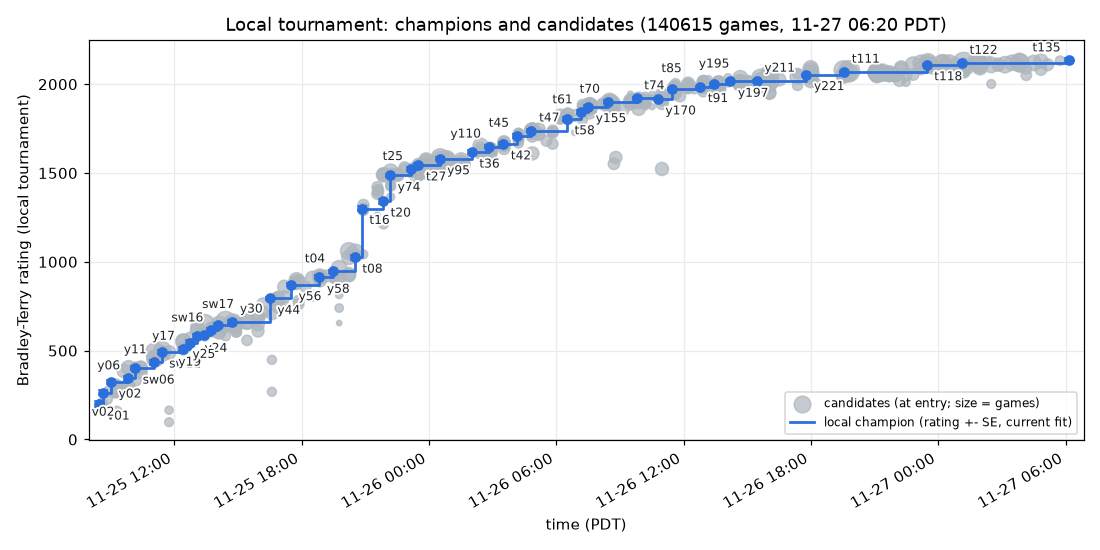
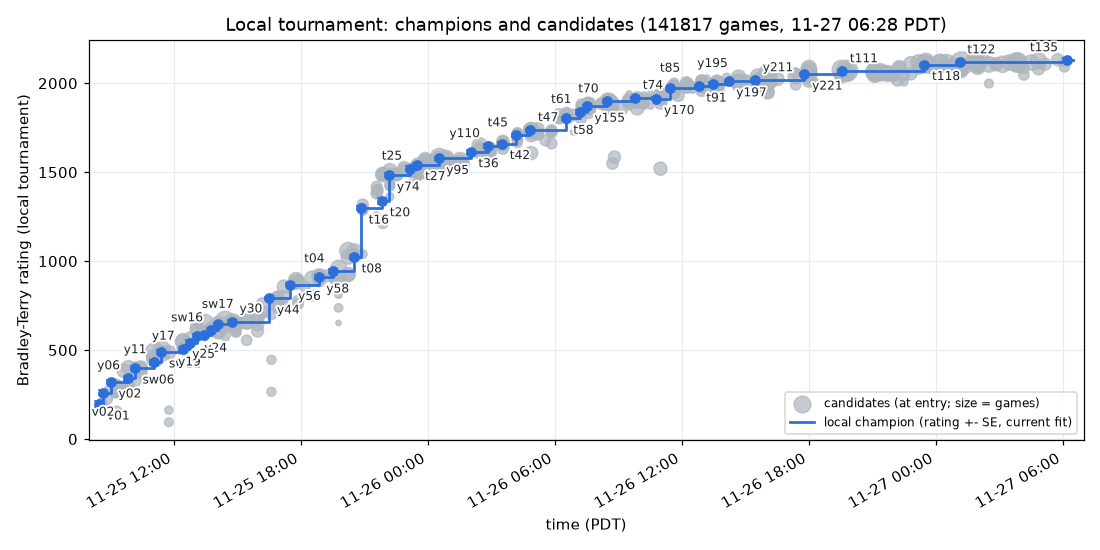
prod: retire y276 (-38 vs t135), y271 (flat after 809); slots held for audit fixes and study 11
Claude-Session: https://claude.ai/code/session_01SzziPSCWtjsjju9cnThDf5

diff --git a/progress/local-elo.md b/progress/local-elo.md
@@ -1,54 +1,54 @@
 # Local tournament Elo
 
-Bradley-Terry ratings of our own bots in the local tournament (`tools/tourney.py`), all 140615 games in one fit as of 2026-11-27 06:21 PDT, so every point is on the same scale; earlier champions are shown at their current rating, and "Gain" is the rating over the champion it replaced. `tools/tourney.py rank` rewrites this table; `tools/tourney.py chart` also redraws the chart.
+Bradley-Terry ratings of our own bots in the local tournament (`tools/tourney.py`), all 141817 games in one fit as of 2026-11-27 06:28 PDT, so every point is on the same scale; earlier champions are shown at their current rating, and "Gain" is the rating over the champion it replaced. `tools/tourney.py rank` rewrites this table; `tools/tourney.py chart` also redraws the chart.
 
 ![local elo](local-elo.png)
 
 | Champion from (PDT) | Bot | Change on base | Submission | Rating +- SE | Gain | Games |
 |---|---|---|---:|---:|---:|---:|
-| 2026-11-25 08:28 | v01 | foundation bot |  | 199 +- 18 |  | 435 |
-| 2026-11-25 08:39 | v02 | nav wall-follow fix + bytecode guards on v01 | #6 | 264 +- 13 | +65 | 801 |
-| 2026-11-25 09:01 | y02 | paint-heavy tower mix + paint towers upgraded first on v02 | #7 | 323 +- 11 | +59 | 1080 |
-| 2026-11-25 09:49 | y06 | 3 opening soldiers instead of 2 on y02 | #35 | 344 +- 13 | +21 | 700 |
-| 2026-11-25 10:09 | sw06 | no moppers before r80; a third of spawns moppers after (field study 1) on y02 | #36 | 401 +- 12 | +79 | 863 |
-| 2026-11-25 11:04 | y11 | mid-game mix 3 moppers per 6 (soldier mopper splasher mopper soldier mopper) on sw06 | #37 | 434 +- 14 | +33 | 655 |
-| 2026-11-25 11:24 | sw11 | at most 1 helper soldier per ruin (more ruins claimed in parallel) on y11 | #38 | 492 +- 11 | +58 | 1159 |
-| 2026-11-25 12:24 | y17 | sw11 + moppers prefer enemies within r2 25 of our towers (sw12) on sw11 | #39 | 510 +- 12 | +18 | 871 |
-| 2026-11-25 12:44 | y19 | sw11 with soldiers joining an occupied ruin only when adjacent (r2<=2) on y17 | #40 | 545 +- 14 | +35 | 678 |
-| 2026-11-25 13:04 | y24 | y17 with mopper defence widened (DEFEND_R2 36 / bonus 80) on y19 | #41 | 580 +- 13 | +35 | 679 |
-| 2026-11-25 13:24 | y25 | y19 (adjacent-only ruin helping) + y17 tower-defending moppers on y24 | #42 | 589 +- 12 | +9 | 898 |
-| 2026-11-25 13:44 | sw16 | y25 + soldier siege: with no ruin and paint>=80 kite a known enemy tower within r2 64 on y25 | #43 | 614 +- 11 | +24 | 976 |
-| 2026-11-25 14:04 | sw17 | y28 (siege from 50 paint r2 100) + splasher siege (towers weigh 40; walk to known tower within r2 100 at paint>=100) on sw16 | #44 | 646 +- 10 | +33 | 1110 |
-| 2026-11-25 14:44 | y30 | y28 with soldier siege from 30 paint within r2 144 (no splasher siege) on sw17 | #45 | 663 +- 7 | +17 | 2377 |
-| 2026-11-25 16:30 | y44 | study 3 tactic 3 (enemy refill policy): return at 50% paint (soldier 100/splasher 100/mopper 40) + end-of-turn top-up from any adjacent ally tower on y30 | #46 | 794 +- 8 | +131 | 2250 |
-| 2026-11-25 17:30 | y56 | study 3 tactic 4 (tower churn): a drained L1 money tower with intact pattern and an ally adjacent disintegrates at >=2000 chips; adjacent robots re-complete it for a fresh 500 paint on y44 | #47 | 871 +- 10 | +77 | 1320 |
-| 2026-11-25 18:50 | y58 | study 3 tactic 2 (early soldiers paint patterns not coverage): exploring soldiers paint no coverage before r50 on y56 | #48 | 913 +- 11 | +42 | 997 |
-| 2026-11-25 19:30 | t04 | t02 (no coverage painting before r80) + t03 (units wait beside drained money towers and repair their pattern so churn fires; study 3 tactics 2 and 4) on y58 | #49 | 946 +- 11 | +33 | 1065 |
-| 2026-11-25 20:30 | t08 | study 4 2.2 (contested ruins): soldiers skip a ruin with enemy paint in its visible 5x5 (bad for 50 rounds) on t04 | #50 | 1026 +- 13 | +80 | 775 |
-| 2026-11-25 20:50 | t16 | t12 (t08 + study 4 2.1 spawn freeze 8 rounds in 20 below 1000+cost) + study 4 2.4 money-first: builds money until 8 towers then paint while paint towers < n/5; paint first only if none (all towers known) on t08 | #51 | 1300 +- 12 | +274 | 1213 |
-| 2026-11-25 21:50 | t20 | study 4 2.3: splashers weight enemy towers 30 (was 12) in the splash score on t16 | #52 | 1341 +- 15 | +41 | 587 |
-| 2026-11-25 22:10 | y74 | unit audit (owner prompt #15): splash-grid bug fix (enemy tiles never scored) + moppers stop once enemy paint is in mop reach; built on t16 on t20 | #53 | 1486 +- 10 | +145 | 1255 |
-| 2026-11-25 23:10 | t25 | unit audit + top teams' unit mix (616 S / 662 X / 701 M): after r80 paint towers cycle soldier-splasher-mopper; money towers keep S M X M S M on y74 | #54 | 1522 +- 13 | +36 | 680 |
-| 2026-11-25 23:30 | t27 | top teams' splasher-heavy late mix pushed further: paint towers cycle soldier-splasher-splasher-mopper after r80 on t25 | #55 | 1545 +- 9 | +23 | 1554 |
-| 2026-11-26 00:30 | y95 | upgrade spare 1200 (was 800): chips stay for new towers longer on t27 | #56 | 1580 +- 9 | +35 | 1822 |
-| 2026-11-26 02:01 | t36 | late SRPs (study 4 2.6 / study 3 tactic 7): soldiers without a ruin build SRPs on the x%4==2 y%4==2 lattice from r100 with chips>=1000; splashers avoid repainting SRP secondary tiles on y95 | #57 | 1617 +- 11 | +37 | 977 |
-| 2026-11-26 02:50 | y110 | money towers upgrade only with 2500 chips beyond the cost+spare (was 1000): chips go to new towers and SRPs on t36 | #58 | 1648 +- 10 | +31 | 1260 |
-| 2026-11-26 03:30 | t42 | study 4 3.1 recovery: with every tower known and no money tower left the next ruin is a money tower on y110 | #59 | 1663 +- 10 | +15 | 1332 |
-| 2026-11-26 04:10 | t45 | study 3 tactic 1: after r40 towers spawn only with 1000 chips beyond the unit's cost (no 600-chip window) on t42 | #60 | 1710 +- 10 | +47 | 1226 |
-| 2026-11-26 04:50 | t47 | study 3 tactic 5: a mopper due in the cycle spawns even below the 1000 reserve when an enemy robot is within d2 20 of the tower on t45 | #61 | 1739 +- 7 | +29 | 2398 |
-| 2026-11-26 06:30 | t58 | study 5 2.3: a splasher that has not splashed for 8 rounds (while able to) explores instead of chasing the nearest non-ally tile on t47 | #62 | 1805 +- 11 | +66 | 1087 |
-| 2026-11-26 07:10 | t61 | study 5 2.1 (softened): money towers for builds 1-5; then one more paint tower per 4 towers on t58 | #63 | 1842 +- 11 | +37 | 938 |
-| 2026-11-26 07:30 | y155 | study 5 2.1 tuned: money towers for builds 1-6; then one more paint tower per 4 towers on t61 | #64 | 1874 +- 9 | +32 | 1615 |
-| 2026-11-26 08:27 | t70 | y155 + splashers weight enemy towers 30 (t68) + 2000+ chips makes the next tower a paint tower (y159) on y155 | #65 | 1901 +- 7 | +27 | 2530 |
-| 2026-11-26 09:47 | t74 | moppers weight enemy paint near ruins 40 (study 6 2.1c) on t70 | #66 | 1920 +- 8 | +19 | 2200 |
-| 2026-11-26 10:47 | y170 | soldiers make the next tower a paint tower at 1500+ chips (t63 tuning; was 2000) on t74 | #67 | 1917 +- 7 | -4 | 2823 |
-| 2026-11-26 11:27 | t85 | study 6 2.2 ruin denial from where the soldier stands: a soldier with no ruin paints empty tiles of a ruin the enemy is building; without walking to it on y170 | #68 | 1974 +- 7 | +57 | 2556 |
-| 2026-11-26 12:47 | t91 | study 7 2.5: moppers ignore ruins under enemy towers when weighting ruin paint on t85 | #69 | 1986 +- 5 | +12 | 4989 |
-| 2026-11-26 13:27 | y195 | study 7 2.1a: explore unseen tiles first; up to 16 random draws on t91 | #70 | 2000 +- 9 | +14 | 1349 |
-| 2026-11-26 14:12 | y197 | ruin denial stops at 2 of our tiles (tuning of study 6 2.2) on y195 | #71 | 2016 +- 7 | +16 | 2235 |
-| 2026-11-26 15:27 | y211 | study 7 2.1a tuned: up to 128 random draws for an unseen explore target (was 16) on y197 | #72 | 2019 +- 6 | +3 | 4141 |
-| 2026-11-26 17:47 | y221 | study 8 2.2 (paint the first tower's pattern on the way in; a second soldier on the first ruin) + explore timeout 90; first champion through the confirmation stage (owner #46) on y211 | #73 | 2054 +- 5 | +34 | 6040 |
-| 2026-11-26 19:34 | t111 | splashers attack enemy paint/money towers from a stand-off tile outside their range (study 8 2.4) on y221 | #74 | 2070 +- 5 | +17 | 7332 |
-| 2026-11-26 23:27 | t118 | study 9 2.1b: a soldier on a blocked pattern with no own mopper or splasher in view gives up after 5 turns (was 25); confirmed +71 +-29 in 153 fresh games on t111 | #75 | 2109 +- 5 | +39 | 5482 |
-| 2026-11-27 01:07 | t122 | study 9 2.4: paint-tower dry flags expire after 10 rounds (was 40) and a flagged tower in sight is re-sensed; confirmed +6 +-19 in 378 fresh games; +16 overall on t118 | #76 | 2120 +- 4 | +11 | 9281 |
-| 2026-11-27 06:10 | t135 | study 10 2.6d: a soldier with no other soldier in view skips the 25-paint pattern mark (the top teams never mark); confirmed +9 +-22 in 262 fresh games; +14 overall on t122 | #77 | 2134 +- 13 | +14 | 1290 |
+| 2026-11-25 08:28 | v01 | foundation bot |  | 196 +- 18 |  | 435 |
+| 2026-11-25 08:39 | v02 | nav wall-follow fix + bytecode guards on v01 | #6 | 261 +- 13 | +65 | 801 |
+| 2026-11-25 09:01 | y02 | paint-heavy tower mix + paint towers upgraded first on v02 | #7 | 320 +- 11 | +59 | 1080 |
+| 2026-11-25 09:49 | y06 | 3 opening soldiers instead of 2 on y02 | #35 | 341 +- 13 | +21 | 700 |
+| 2026-11-25 10:09 | sw06 | no moppers before r80; a third of spawns moppers after (field study 1) on y02 | #36 | 399 +- 12 | +79 | 863 |
+| 2026-11-25 11:04 | y11 | mid-game mix 3 moppers per 6 (soldier mopper splasher mopper soldier mopper) on sw06 | #37 | 431 +- 14 | +33 | 655 |
+| 2026-11-25 11:24 | sw11 | at most 1 helper soldier per ruin (more ruins claimed in parallel) on y11 | #38 | 489 +- 11 | +58 | 1159 |
+| 2026-11-25 12:24 | y17 | sw11 + moppers prefer enemies within r2 25 of our towers (sw12) on sw11 | #39 | 507 +- 12 | +18 | 871 |
+| 2026-11-25 12:44 | y19 | sw11 with soldiers joining an occupied ruin only when adjacent (r2<=2) on y17 | #40 | 542 +- 14 | +35 | 678 |
+| 2026-11-25 13:04 | y24 | y17 with mopper defence widened (DEFEND_R2 36 / bonus 80) on y19 | #41 | 577 +- 13 | +35 | 679 |
+| 2026-11-25 13:24 | y25 | y19 (adjacent-only ruin helping) + y17 tower-defending moppers on y24 | #42 | 586 +- 12 | +9 | 898 |
+| 2026-11-25 13:44 | sw16 | y25 + soldier siege: with no ruin and paint>=80 kite a known enemy tower within r2 64 on y25 | #43 | 611 +- 11 | +24 | 976 |
+| 2026-11-25 14:04 | sw17 | y28 (siege from 50 paint r2 100) + splasher siege (towers weigh 40; walk to known tower within r2 100 at paint>=100) on sw16 | #44 | 644 +- 10 | +33 | 1110 |
+| 2026-11-25 14:44 | y30 | y28 with soldier siege from 30 paint within r2 144 (no splasher siege) on sw17 | #45 | 660 +- 7 | +17 | 2377 |
+| 2026-11-25 16:30 | y44 | study 3 tactic 3 (enemy refill policy): return at 50% paint (soldier 100/splasher 100/mopper 40) + end-of-turn top-up from any adjacent ally tower on y30 | #46 | 791 +- 8 | +131 | 2250 |
+| 2026-11-25 17:30 | y56 | study 3 tactic 4 (tower churn): a drained L1 money tower with intact pattern and an ally adjacent disintegrates at >=2000 chips; adjacent robots re-complete it for a fresh 500 paint on y44 | #47 | 869 +- 10 | +77 | 1320 |
+| 2026-11-25 18:50 | y58 | study 3 tactic 2 (early soldiers paint patterns not coverage): exploring soldiers paint no coverage before r50 on y56 | #48 | 910 +- 11 | +42 | 997 |
+| 2026-11-25 19:30 | t04 | t02 (no coverage painting before r80) + t03 (units wait beside drained money towers and repair their pattern so churn fires; study 3 tactics 2 and 4) on y58 | #49 | 943 +- 11 | +33 | 1065 |
+| 2026-11-25 20:30 | t08 | study 4 2.2 (contested ruins): soldiers skip a ruin with enemy paint in its visible 5x5 (bad for 50 rounds) on t04 | #50 | 1023 +- 13 | +80 | 775 |
+| 2026-11-25 20:50 | t16 | t12 (t08 + study 4 2.1 spawn freeze 8 rounds in 20 below 1000+cost) + study 4 2.4 money-first: builds money until 8 towers then paint while paint towers < n/5; paint first only if none (all towers known) on t08 | #51 | 1297 +- 12 | +274 | 1213 |
+| 2026-11-25 21:50 | t20 | study 4 2.3: splashers weight enemy towers 30 (was 12) in the splash score on t16 | #52 | 1339 +- 15 | +41 | 587 |
+| 2026-11-25 22:10 | y74 | unit audit (owner prompt #15): splash-grid bug fix (enemy tiles never scored) + moppers stop once enemy paint is in mop reach; built on t16 on t20 | #53 | 1483 +- 10 | +145 | 1255 |
+| 2026-11-25 23:10 | t25 | unit audit + top teams' unit mix (616 S / 662 X / 701 M): after r80 paint towers cycle soldier-splasher-mopper; money towers keep S M X M S M on y74 | #54 | 1520 +- 13 | +36 | 680 |
+| 2026-11-25 23:30 | t27 | top teams' splasher-heavy late mix pushed further: paint towers cycle soldier-splasher-splasher-mopper after r80 on t25 | #55 | 1542 +- 9 | +23 | 1554 |
+| 2026-11-26 00:30 | y95 | upgrade spare 1200 (was 800): chips stay for new towers longer on t27 | #56 | 1577 +- 9 | +35 | 1822 |
+| 2026-11-26 02:01 | t36 | late SRPs (study 4 2.6 / study 3 tactic 7): soldiers without a ruin build SRPs on the x%4==2 y%4==2 lattice from r100 with chips>=1000; splashers avoid repainting SRP secondary tiles on y95 | #57 | 1615 +- 11 | +37 | 977 |
+| 2026-11-26 02:50 | y110 | money towers upgrade only with 2500 chips beyond the cost+spare (was 1000): chips go to new towers and SRPs on t36 | #58 | 1646 +- 10 | +31 | 1260 |
+| 2026-11-26 03:30 | t42 | study 4 3.1 recovery: with every tower known and no money tower left the next ruin is a money tower on y110 | #59 | 1660 +- 10 | +15 | 1332 |
+| 2026-11-26 04:10 | t45 | study 3 tactic 1: after r40 towers spawn only with 1000 chips beyond the unit's cost (no 600-chip window) on t42 | #60 | 1707 +- 10 | +47 | 1226 |
+| 2026-11-26 04:50 | t47 | study 3 tactic 5: a mopper due in the cycle spawns even below the 1000 reserve when an enemy robot is within d2 20 of the tower on t45 | #61 | 1736 +- 7 | +29 | 2398 |
+| 2026-11-26 06:30 | t58 | study 5 2.3: a splasher that has not splashed for 8 rounds (while able to) explores instead of chasing the nearest non-ally tile on t47 | #62 | 1802 +- 11 | +66 | 1087 |
+| 2026-11-26 07:10 | t61 | study 5 2.1 (softened): money towers for builds 1-5; then one more paint tower per 4 towers on t58 | #63 | 1839 +- 11 | +37 | 938 |
+| 2026-11-26 07:30 | y155 | study 5 2.1 tuned: money towers for builds 1-6; then one more paint tower per 4 towers on t61 | #64 | 1871 +- 9 | +32 | 1615 |
+| 2026-11-26 08:27 | t70 | y155 + splashers weight enemy towers 30 (t68) + 2000+ chips makes the next tower a paint tower (y159) on y155 | #65 | 1898 +- 7 | +27 | 2530 |
+| 2026-11-26 09:47 | t74 | moppers weight enemy paint near ruins 40 (study 6 2.1c) on t70 | #66 | 1917 +- 8 | +19 | 2200 |
+| 2026-11-26 10:47 | y170 | soldiers make the next tower a paint tower at 1500+ chips (t63 tuning; was 2000) on t74 | #67 | 1914 +- 7 | -4 | 2823 |
+| 2026-11-26 11:27 | t85 | study 6 2.2 ruin denial from where the soldier stands: a soldier with no ruin paints empty tiles of a ruin the enemy is building; without walking to it on y170 | #68 | 1971 +- 7 | +58 | 2556 |
+| 2026-11-26 12:47 | t91 | study 7 2.5: moppers ignore ruins under enemy towers when weighting ruin paint on t85 | #69 | 1983 +- 5 | +12 | 5069 |
+| 2026-11-26 13:27 | y195 | study 7 2.1a: explore unseen tiles first; up to 16 random draws on t91 | #70 | 1997 +- 9 | +14 | 1349 |
+| 2026-11-26 14:12 | y197 | ruin denial stops at 2 of our tiles (tuning of study 6 2.2) on y195 | #71 | 2013 +- 7 | +16 | 2235 |
+| 2026-11-26 15:27 | y211 | study 7 2.1a tuned: up to 128 random draws for an unseen explore target (was 16) on y197 | #72 | 2016 +- 6 | +3 | 4141 |
+| 2026-11-26 17:47 | y221 | study 8 2.2 (paint the first tower's pattern on the way in; a second soldier on the first ruin) + explore timeout 90; first champion through the confirmation stage (owner #46) on y211 | #73 | 2051 +- 5 | +34 | 6166 |
+| 2026-11-26 19:34 | t111 | splashers attack enemy paint/money towers from a stand-off tile outside their range (study 8 2.4) on y221 | #74 | 2067 +- 5 | +16 | 7332 |
+| 2026-11-26 23:27 | t118 | study 9 2.1b: a soldier on a blocked pattern with no own mopper or splasher in view gives up after 5 turns (was 25); confirmed +71 +-29 in 153 fresh games on t111 | #75 | 2105 +- 5 | +38 | 5640 |
+| 2026-11-27 01:07 | t122 | study 9 2.4: paint-tower dry flags expire after 10 rounds (was 40) and a flagged tower in sight is re-sensed; confirmed +6 +-19 in 378 fresh games; +16 overall on t118 | #76 | 2117 +- 4 | +13 | 9927 |
+| 2026-11-27 06:10 | t135 | study 10 2.6d: a soldier with no other soldier in view skips the 25-paint pattern mark (the top teams never mark); confirmed +9 +-22 in 262 fresh games; +14 overall on t122 | #77 | 2129 +- 12 | +12 | 1581 |
